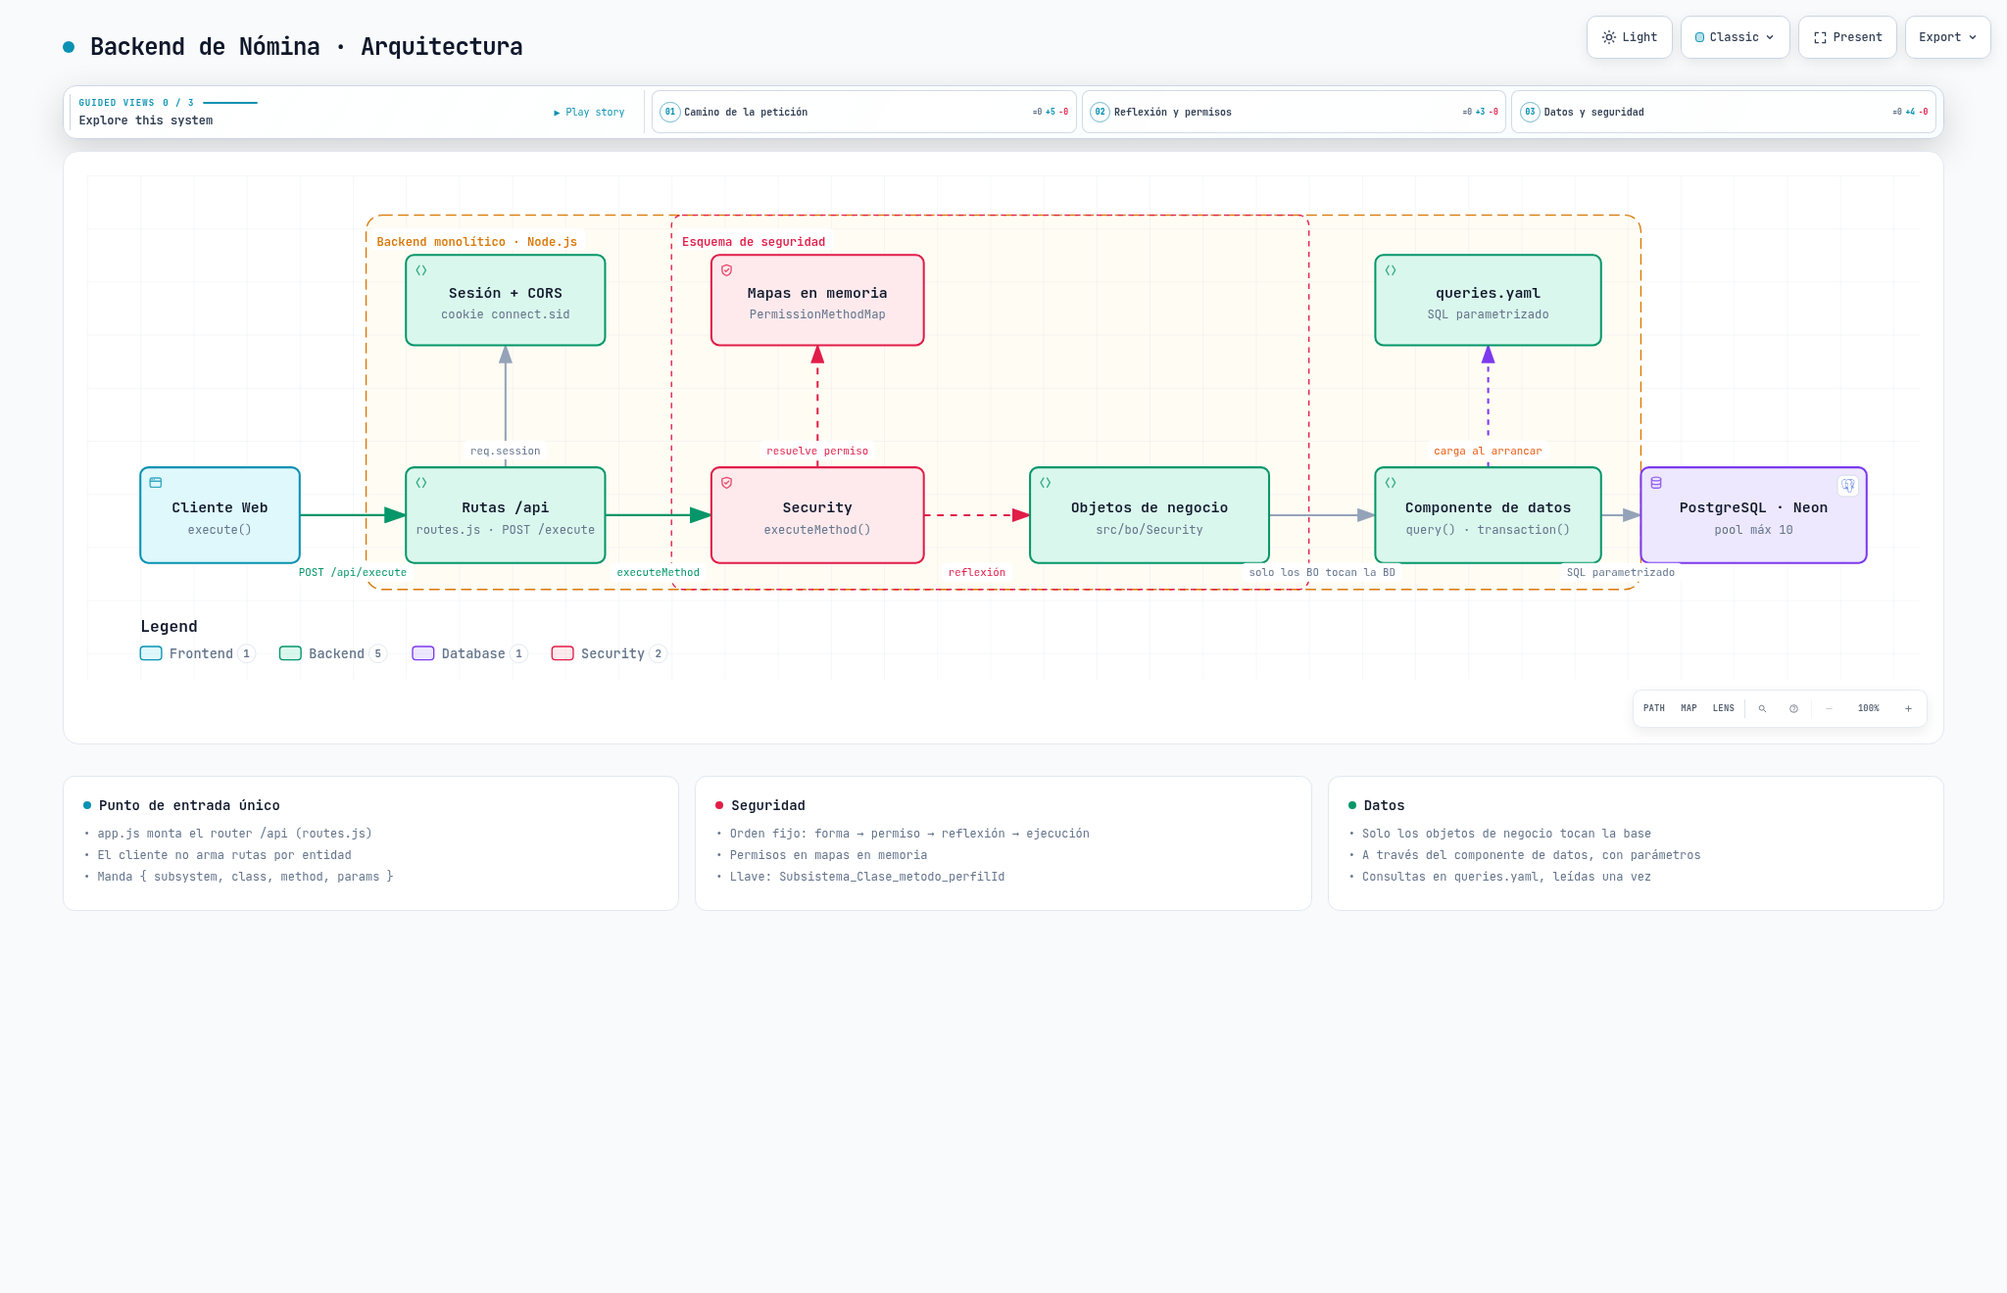
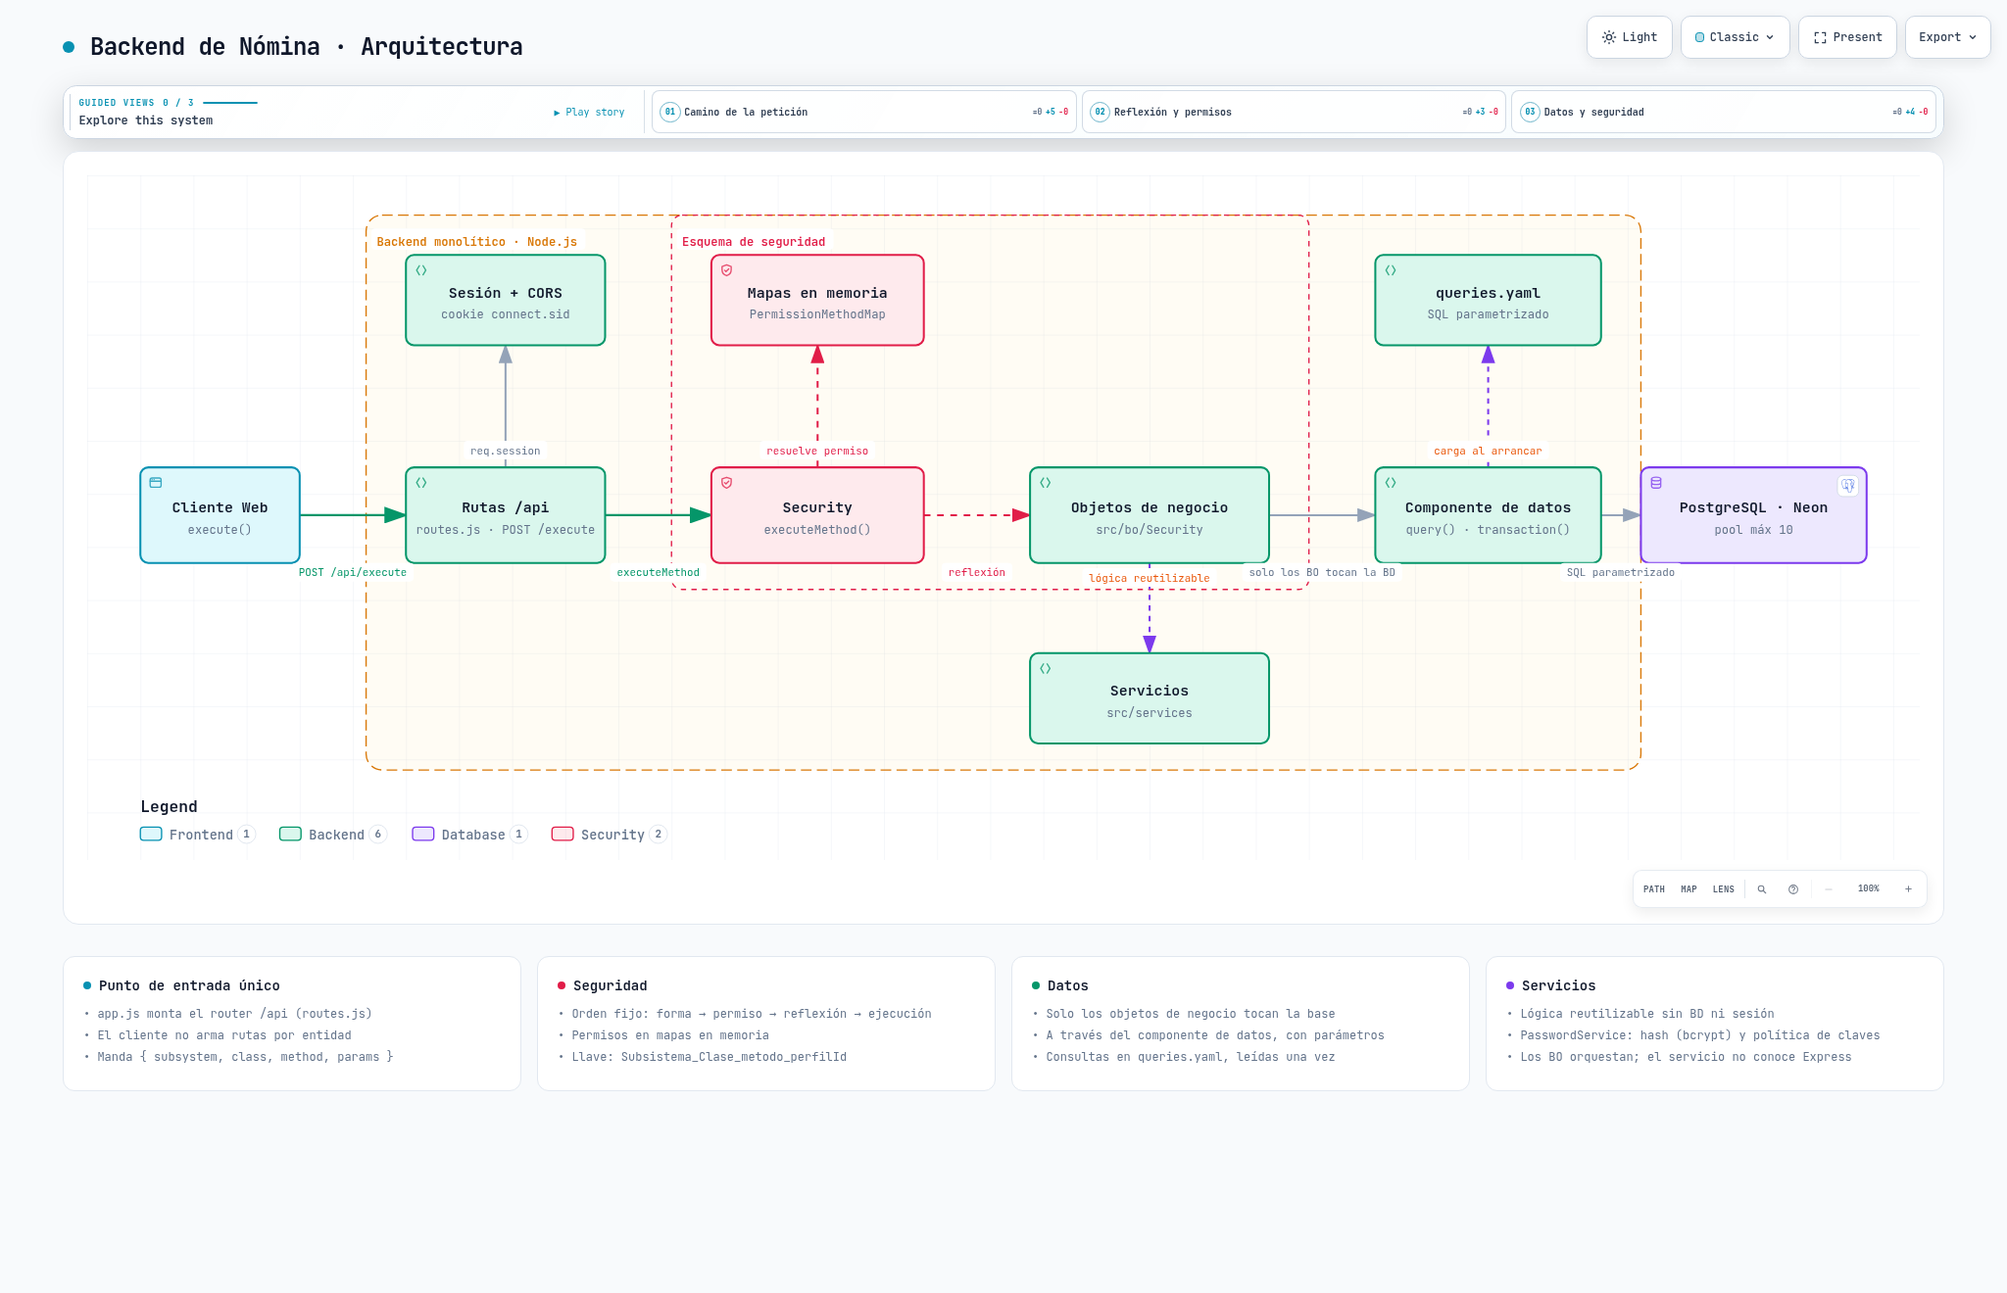
Refactor:extrae PasswordService para eliminar la logica de claves duplicada
Crea src/services/PasswordService.js (validar, hashear, verificar,
verificarContraDummy) y hace que Session y User deleguen en el. Quita
bcrypt y la validacion de politica duplicada de los BO. Actualiza el
diagrama de arquitectura con el componente Servicios.

Verificado: pnpm test 62/62; archify validate 9/9 y visual-check sin overflow.

diff --git a/archify-out/payroll-backend-architecture.html b/archify-out/payroll-backend-architecture.html
@@ -5130,7 +5130,7 @@ OTHER DEALINGS IN THE FONT SOFTWARE.
     <!-- Main Diagram -->
     <div class="diagram-container" data-detail-level="read"
          data-preset-badge-editorial-plate="ARCHIFY / PLATE 04">
-      <svg viewBox="0 0 1380 380" role="img" lang="en" aria-labelledby="archify-diagram-title archify-diagram-description" data-preset="classic" data-quality-profile="showcase">
+      <svg viewBox="0 0 1380 516" role="img" lang="en" aria-labelledby="archify-diagram-title archify-diagram-description" data-preset="classic" data-quality-profile="showcase">
         <title id="archify-diagram-title">Backend de Nómina · Arquitectura</title>
         <desc id="archify-diagram-description">An architecture diagram generated by Archify.</desc>
         <!-- Definitions -->
@@ -5156,7 +5156,7 @@ OTHER DEALINGS IN THE FONT SOFTWARE.
         <rect width="100%" height="100%" fill="url(#grid)" />
 
         <!-- Boundaries (behind everything) -->
-        <rect data-graph-role="structural-frame" data-composition-frame-kind="region" data-composition-frame-id="0" data-composition-frame-label="Backend monolítico · Node.js" x="210" y="30" width="960" height="282" rx="12" class="c-region" stroke-width="1"/>
+        <rect data-graph-role="structural-frame" data-composition-frame-kind="region" data-composition-frame-id="0" data-composition-frame-label="Backend monolítico · Node.js" x="210" y="30" width="960" height="418" rx="12" class="c-region" stroke-width="1"/>
 
         <rect data-graph-role="structural-frame" data-composition-frame-kind="security-group" data-composition-frame-id="1" data-composition-frame-label="Esquema de seguridad" x="440" y="30" width="480" height="282" rx="8" class="c-security-group" stroke-width="1"/>
 
@@ -5167,8 +5167,9 @@ OTHER DEALINGS IN THE FONT SOFTWARE.
         <path data-edge-from="security" data-edge-to="permisos" data-edge-label="resuelve permiso" data-edge-key="3" data-edge-id="security-permisos" data-composition-points="550,220;550,128" d="M 550 220 L 550 128" class="a-security" stroke-width="1.5" marker-end="url(#arrowhead-security)"/>
         <path data-edge-from="security" data-edge-to="bo" data-edge-label="reflexión" data-edge-key="4" data-edge-id="security-bo" data-composition-points="630,256;710,256" d="M 630 256 L 710 256" class="a-security" stroke-width="1.5" marker-end="url(#arrowhead-security)"/>
         <path data-edge-from="bo" data-edge-to="db" data-edge-label="solo los BO tocan la BD" data-edge-key="5" data-edge-id="bo-db" data-composition-points="890,256;970,256" d="M 890 256 L 970 256" class="a-default" stroke-width="1.5" marker-end="url(#arrowhead)"/>
-        <path data-edge-from="db" data-edge-to="queries" data-edge-label="carga al arrancar" data-edge-key="6" data-edge-id="db-queries" data-composition-points="1055,220;1055,128" d="M 1055 220 L 1055 128" class="a-dashed" stroke-width="1.5" marker-end="url(#arrowhead-dashed)"/>
-        <path data-edge-from="db" data-edge-to="neon" data-edge-label="SQL parametrizado" data-edge-key="7" data-edge-id="db-neon" data-composition-points="1140,256;1170,256" d="M 1140 256 L 1170 256" class="a-default" stroke-width="1.5" marker-end="url(#arrowhead)"/>
+        <path data-edge-from="bo" data-edge-to="services" data-edge-label="lógica reutilizable" data-edge-key="6" data-edge-id="bo-services" data-composition-points="800,292;800,360" d="M 800 292 L 800 360" class="a-dashed" stroke-width="1.5" marker-end="url(#arrowhead-dashed)"/>
+        <path data-edge-from="db" data-edge-to="queries" data-edge-label="carga al arrancar" data-edge-key="7" data-edge-id="db-queries" data-composition-points="1055,220;1055,128" d="M 1055 220 L 1055 128" class="a-dashed" stroke-width="1.5" marker-end="url(#arrowhead-dashed)"/>
+        <path data-edge-from="db" data-edge-to="neon" data-edge-label="SQL parametrizado" data-edge-key="8" data-edge-id="db-neon" data-composition-points="1140,256;1170,256" d="M 1140 256 L 1170 256" class="a-default" stroke-width="1.5" marker-end="url(#arrowhead)"/>
 
         <!-- Components -->
         <g id="node-cliente" data-node-id="cliente" data-node-label="Cliente Web" tabindex="0" role="button" aria-label="Focus Cliente Web, execute(), Architecture component" aria-pressed="false" data-node-kind="frontend" data-node-sublabel="execute()" data-node-tag="otro repo" data-node-context="Architecture component">
@@ -5221,6 +5222,18 @@ OTHER DEALINGS IN THE FONT SOFTWARE.
           <text data-node-label="" data-detail-anchor="" x="800" y="254" class="t-primary" font-size="11" font-weight="600" text-anchor="middle">Objetos de negocio</text>
         <text data-detail="context" x="800" y="270" class="t-muted" font-size="9" text-anchor="middle">src/bo/Security</text>
         <text data-detail="fine" x="800" y="284" class="t-backend" font-size="7" text-anchor="middle">Session · Menu · Admin · User</text>
+        </g>
+
+        <g id="node-services" data-node-id="services" data-node-label="Servicios" tabindex="0" role="button" aria-label="Focus Servicios, src/services, Backend monolítico · Node.js" aria-pressed="false" data-node-kind="backend" data-node-sublabel="src/services" data-node-tag="PasswordService" data-node-context="Backend monolítico · Node.js">
+          <title>Servicios · src/services · Backend monolítico · Node.js · PasswordService</title>
+          <rect x="710" y="360" width="180" height="68" rx="6" class="c-mask"/>
+          <rect x="710" y="360" width="180" height="68" rx="6" class="c-backend" stroke-width="1.5"/>
+          <g aria-hidden="true" data-semantic-sigil="backend" class="semantic-sigil s-backend" transform="translate(716 366) scale(0.6875)">
+            <path d="M6 3 3 8l3 5M10 3l3 5-3 5"/>
+          </g>
+          <text data-node-label="" data-detail-anchor="" x="800" y="392" class="t-primary" font-size="11" font-weight="600" text-anchor="middle">Servicios</text>
+        <text data-detail="context" x="800" y="408" class="t-muted" font-size="9" text-anchor="middle">src/services</text>
+        <text data-detail="fine" x="800" y="420" class="t-backend" font-size="7" text-anchor="middle">PasswordService</text>
         </g>
 
         <g id="node-db" data-node-id="db" data-node-label="Componente de datos" tabindex="0" role="button" aria-label="Focus Componente de datos, query() · transaction(), Backend monolítico · Node.js" aria-pressed="false" data-node-kind="backend" data-node-sublabel="query() · transaction()" data-node-tag="Database.js" data-node-context="Backend monolítico · Node.js">
@@ -5315,11 +5328,15 @@ OTHER DEALINGS IN THE FONT SOFTWARE.
           <rect x="869.8" y="292" width="120.39999999999999" height="14" rx="3" class="c-mask"/>
           <text x="930" y="302" class="t-muted" font-size="8" text-anchor="middle">solo los BO tocan la BD</text>
         </g>
-        <g data-detail="context" data-edge-from="db" data-edge-to="queries" data-edge-label="carga al arrancar" data-edge-key="6" data-edge-id="db-queries">
+        <g data-detail="context" data-edge-from="bo" data-edge-to="services" data-edge-label="lógica reutilizable" data-edge-key="6" data-edge-id="bo-services">
+          <rect x="749.4" y="296" width="101.2" height="14" rx="3" class="c-mask"/>
+          <text x="800" y="306" class="t-messagebus" font-size="8" text-anchor="middle">lógica reutilizable</text>
+        </g>
+        <g data-detail="context" data-edge-from="db" data-edge-to="queries" data-edge-label="carga al arrancar" data-edge-key="7" data-edge-id="db-queries">
           <rect x="1009.2" y="200" width="91.6" height="14" rx="3" class="c-mask"/>
           <text x="1055" y="210" class="t-messagebus" font-size="8" text-anchor="middle">carga al arrancar</text>
         </g>
-        <g data-detail="context" data-edge-from="db" data-edge-to="neon" data-edge-label="SQL parametrizado" data-edge-key="7" data-edge-id="db-neon">
+        <g data-detail="context" data-edge-from="db" data-edge-to="neon" data-edge-label="SQL parametrizado" data-edge-key="8" data-edge-id="db-neon">
           <rect x="1109.2" y="292" width="91.6" height="14" rx="3" class="c-mask"/>
           <text x="1155" y="302" class="t-muted" font-size="8" text-anchor="middle">SQL parametrizado</text>
         </g>
@@ -5337,22 +5354,22 @@ OTHER DEALINGS IN THE FONT SOFTWARE.
 
         <!-- Legend -->
         <g data-legend="" data-legend-bridge="">
-          <text x="40" y="344" class="t-primary" font-size="12" font-weight="650">Legend</text>
-          <g data-legend-semantic-kind="frontend" data-legend-kind="frontend" data-legend-label="Frontend" data-legend-x="40" data-legend-baseline="364" data-legend-width="83">
-            <rect x="40" y="355" width="16" height="10" rx="2.5" class="c-frontend" stroke-width="1"/>
-            <text x="62" y="364" class="t-muted" font-size="10" font-weight="500">Frontend</text>
+          <text x="40" y="480" class="t-primary" font-size="12" font-weight="650">Legend</text>
+          <g data-legend-semantic-kind="frontend" data-legend-kind="frontend" data-legend-label="Frontend" data-legend-x="40" data-legend-baseline="500" data-legend-width="83">
+            <rect x="40" y="491" width="16" height="10" rx="2.5" class="c-frontend" stroke-width="1"/>
+            <text x="62" y="500" class="t-muted" font-size="10" font-weight="500">Frontend</text>
           </g>
-          <g data-legend-semantic-kind="backend" data-legend-kind="backend" data-legend-label="Backend" data-legend-x="145" data-legend-baseline="364" data-legend-width="78">
-            <rect x="145" y="355" width="16" height="10" rx="2.5" class="c-backend" stroke-width="1"/>
-            <text x="167" y="364" class="t-muted" font-size="10" font-weight="500">Backend</text>
+          <g data-legend-semantic-kind="backend" data-legend-kind="backend" data-legend-label="Backend" data-legend-x="145" data-legend-baseline="500" data-legend-width="78">
+            <rect x="145" y="491" width="16" height="10" rx="2.5" class="c-backend" stroke-width="1"/>
+            <text x="167" y="500" class="t-muted" font-size="10" font-weight="500">Backend</text>
           </g>
-          <g data-legend-semantic-kind="database" data-legend-kind="database" data-legend-label="Database" data-legend-x="245" data-legend-baseline="364" data-legend-width="83">
-            <rect x="245" y="355" width="16" height="10" rx="2.5" class="c-database" stroke-width="1"/>
-            <text x="267" y="364" class="t-muted" font-size="10" font-weight="500">Database</text>
+          <g data-legend-semantic-kind="database" data-legend-kind="database" data-legend-label="Database" data-legend-x="245" data-legend-baseline="500" data-legend-width="83">
+            <rect x="245" y="491" width="16" height="10" rx="2.5" class="c-database" stroke-width="1"/>
+            <text x="267" y="500" class="t-muted" font-size="10" font-weight="500">Database</text>
           </g>
-          <g data-legend-semantic-kind="security" data-legend-kind="security" data-legend-label="Security" data-legend-x="350" data-legend-baseline="364" data-legend-width="83">
-            <rect x="350" y="355" width="16" height="10" rx="2.5" class="c-security" stroke-width="1"/>
-            <text x="372" y="364" class="t-muted" font-size="10" font-weight="500">Security</text>
+          <g data-legend-semantic-kind="security" data-legend-kind="security" data-legend-label="Security" data-legend-x="350" data-legend-baseline="500" data-legend-width="83">
+            <rect x="350" y="491" width="16" height="10" rx="2.5" class="c-security" stroke-width="1"/>
+            <text x="372" y="500" class="t-muted" font-size="10" font-weight="500">Security</text>
           </g>
         </g>
       </svg>
@@ -5574,6 +5591,18 @@ OTHER DEALINGS IN THE FONT SOFTWARE.
           <li>&bull; Solo los objetos de negocio tocan la base</li>
           <li>&bull; A través del componente de datos, con parámetros</li>
           <li>&bull; Consultas en queries.yaml, leídas una vez</li>
+        </ul>
+      </div>
+
+      <div class="card">
+        <div class="card-header">
+          <div class="card-dot violet"></div>
+          <h3>Servicios</h3>
+        </div>
+        <ul>
+          <li>&bull; Lógica reutilizable sin BD ni sesión</li>
+          <li>&bull; PasswordService: hash (bcrypt) y política de claves</li>
+          <li>&bull; Los BO orquestan; el servicio no conoce Express</li>
         </ul>
       </div>
     </div>

diff --git a/src/bo/Security/User.js b/src/bo/Security/User.js
@@ -1,31 +1,6 @@
-import bcrypt from "bcrypt";
 import { queries } from "../../queries/loader.js";
 import { ErrorNegocio } from "../../errors/ErrorNegocio.js";
-
-const MAX_BYTES_PASSWORD = 72;
-
-function validarPassword(password) {
-  if (typeof password !== "string" || password.length < 8) {
-    throw new ErrorNegocio(
-      "La contraseña debe tener al menos 8 caracteres.",
-      400,
-    );
-  }
-
-  if (Buffer.byteLength(password, "utf8") > MAX_BYTES_PASSWORD) {
-    throw new ErrorNegocio(
-      "La contraseña no puede superar los 72 bytes.",
-      400,
-    );
-  }
-
-  if (!/[A-Za-z]/.test(password) || !/[0-9]/.test(password)) {
-    throw new ErrorNegocio(
-      "La contraseña debe incluir al menos una letra y un número.",
-      400,
-    );
-  }
-}
+import { passwordService } from "../../services/PasswordService.js";
 
 export class User {
   #db;
@@ -63,7 +38,7 @@ export class User {
       );
     }
 
-    validarPassword(password);
+    passwordService.validar(password);
 
     const solicitados = Array.isArray(perfiles)
       ? perfiles
@@ -114,7 +89,7 @@ export class User {
           );
         }
 
-        const passwordHash = await bcrypt.hash(password, 12);
+        const passwordHash = await passwordService.hashear(password);
 
         const persona = await cliente.query(queries.insertPersona, [
           cedula,
@@ -162,7 +137,7 @@ export class User {
       throw new ErrorNegocio("La contraseña actual es obligatoria.", 400);
     }
 
-    validarPassword(nueva);
+    passwordService.validar(nueva);
 
     const { rows } = await this.#db.query(queries.findPasswordHashById, [
       usuarioId,
@@ -172,12 +147,12 @@ export class User {
       throw new ErrorNegocio("Debes iniciar sesión.", 401);
     }
 
-    const coincide = await bcrypt.compare(actual, usuario.password_hash);
+    const coincide = await passwordService.verificar(actual, usuario.password_hash);
     if (!coincide) {
       throw new ErrorNegocio("La contraseña actual es incorrecta.", 401);
     }
 
-    const passwordHash = await bcrypt.hash(nueva, 12);
+    const passwordHash = await passwordService.hashear(nueva);
     await this.#db.query(queries.updatePassword, [passwordHash, usuarioId]);
 
     if (this.#req?.session) {

diff --git a/src/bo/Security/Session.js b/src/bo/Security/Session.js
@@ -1,6 +1,6 @@
-import bcrypt from "bcrypt";
 import { queries } from "../../queries/loader.js";
 import { ErrorNegocio } from "../../errors/ErrorNegocio.js";
+import { passwordService } from "../../services/PasswordService.js";
 import {
   MAX_INTENTOS_FALLIDOS as MAX_INTENTOS,
   MINUTOS_BLOQUEO,
@@ -16,8 +16,6 @@ const pausaCredenciales = async (retardoMax = RETARDO_MAX) => {
   const espera = minimo + Math.floor(Math.random() * (retardoMax - minimo + 1));
   await new Promise((resolve) => setTimeout(resolve, espera));
 };
-
-const HASH_DUMMY = "$2b$12$LybMgOxOi4wCQe0BWoOKXuuEnpNuJm8XqE5ORx8y1kLkuOfiu7zSO";
 
 const MENSAJE_CREDENCIALES = "Usuario o contraseña incorrectos";
 
@@ -104,21 +102,21 @@ export class Session {
     const usuario = rows[0];
 
     if (!usuario) {
-      await bcrypt.compare(password, HASH_DUMMY);
+      await passwordService.verificarContraDummy(password);
       await pausaCredenciales();
       console.log("Login fallido: credenciales inválidas.");
       throw new ErrorNegocio(MENSAJE_CREDENCIALES, 401);
     }
 
     if (!usuario.activo) {
-      await bcrypt.compare(password, HASH_DUMMY);
+      await passwordService.verificarContraDummy(password);
       await pausaCredenciales();
       console.log(`Login denegado: usuario ${usuario.id} inactivo.`);
       throw new ErrorNegocio("La cuenta está desactivada.", 403);
     }
 
     if (usuario.bloqueado_hasta && new Date(usuario.bloqueado_hasta) > new Date()) {
-      await bcrypt.compare(password, HASH_DUMMY);
+      await passwordService.verificarContraDummy(password);
       await pausaCredenciales();
       console.log(`Login denegado: usuario ${usuario.id} bloqueado.`);
       throw new ErrorNegocio(
@@ -127,7 +125,7 @@ export class Session {
       );
     }
 
-    const coincide = await bcrypt.compare(password, usuario.password_hash);
+    const coincide = await passwordService.verificar(password, usuario.password_hash);
     if (!coincide) {
       const { rows: intentos } = await this.#db.query(queries.registerFailedAttempt, [
         usuario.id,

diff --git a/src/services/PasswordService.js b/src/services/PasswordService.js
@@ -1,0 +1,42 @@
+import bcrypt from "bcrypt";
+import { ErrorNegocio } from "../errors/ErrorNegocio.js";
+
+const COSTO_HASH = 12;
+const MIN_CARACTERES = 8;
+const MAX_BYTES = 72;
+
+const HASH_DUMMY = "$2b$12$LybMgOxOi4wCQe0BWoOKXuuEnpNuJm8XqE5ORx8y1kLkuOfiu7zSO";
+
+class PasswordService {
+  validar = (password) => {
+    if (typeof password !== "string" || password.length < MIN_CARACTERES) {
+      throw new ErrorNegocio(
+        `La contraseña debe tener al menos ${MIN_CARACTERES} caracteres.`,
+        400,
+      );
+    }
+
+    if (Buffer.byteLength(password, "utf8") > MAX_BYTES) {
+      throw new ErrorNegocio(
+        `La contraseña no puede superar los ${MAX_BYTES} bytes.`,
+        400,
+      );
+    }
+
+    if (!/[A-Za-z]/.test(password) || !/[0-9]/.test(password)) {
+      throw new ErrorNegocio(
+        "La contraseña debe incluir al menos una letra y un número.",
+        400,
+      );
+    }
+  };
+
+  hashear = (password) => bcrypt.hash(password, COSTO_HASH);
+
+  verificar = (password, hash) => bcrypt.compare(password, hash);
+
+  verificarContraDummy = (password) => bcrypt.compare(password, HASH_DUMMY);
+}
+
+export { PasswordService };
+export const passwordService = new PasswordService();
